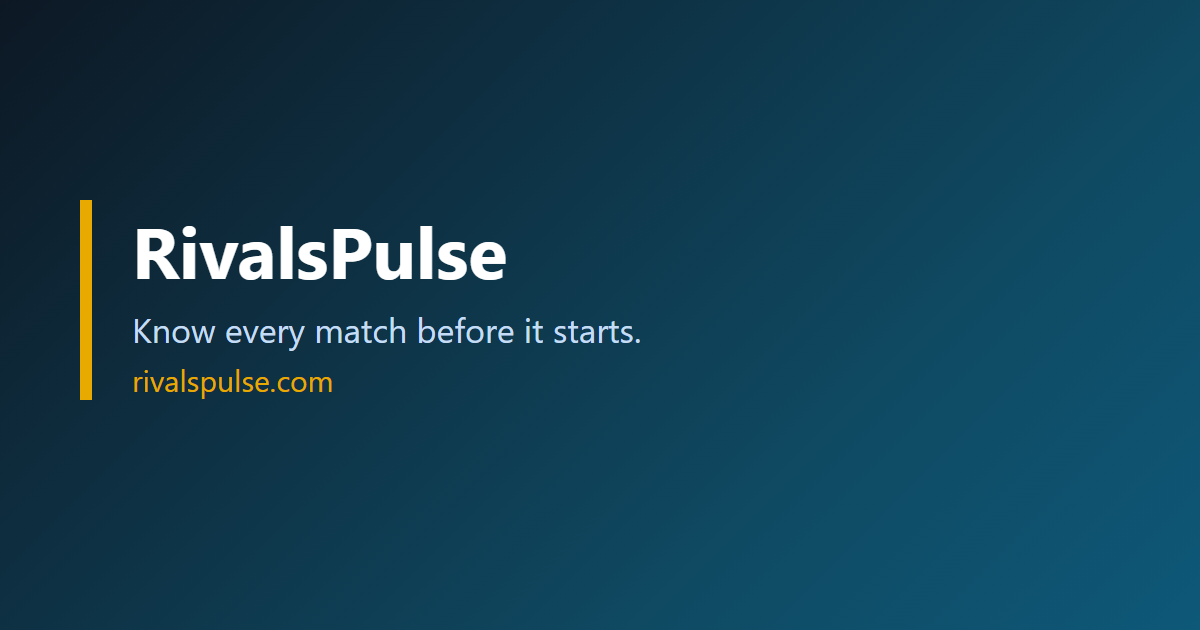
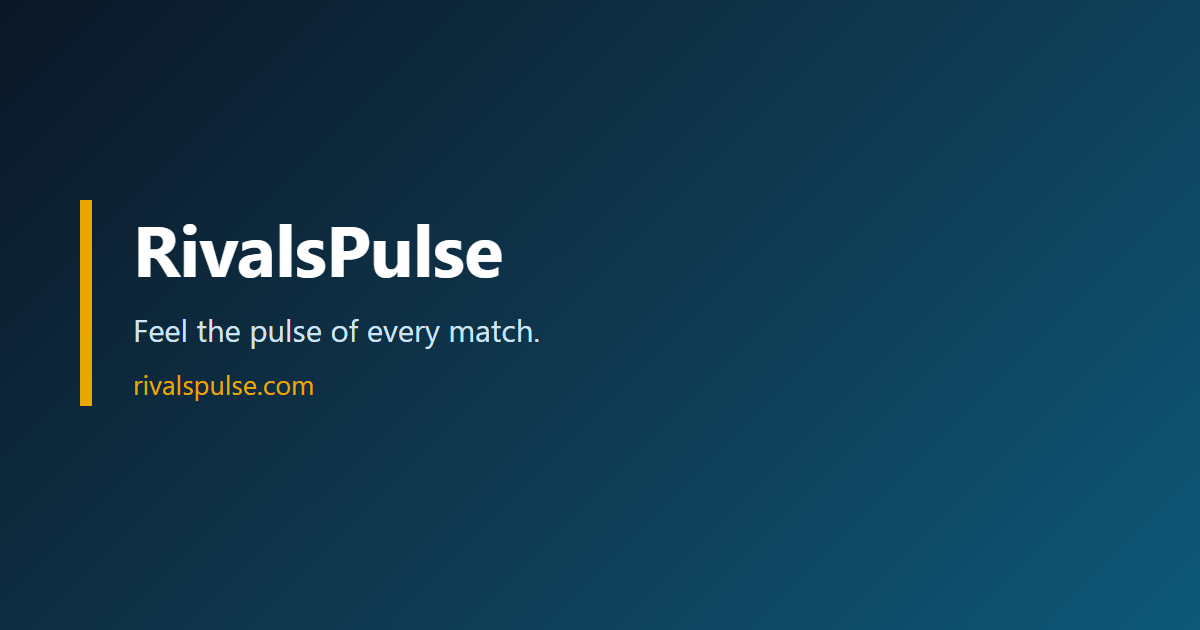
feat(home): "Feel the pulse of every match." slogan with an eyebrow
The hero h1 becomes "Feel the pulse of every match." with the eyebrow
"Live counters in game. Real stats on the web." above it. The tab
title, link-preview tags and the re-rendered preview image use the new
heading.

Closes #396

diff --git a/src/index.html b/src/index.html
@@ -2,7 +2,7 @@
 <html lang="en">
 <head>
   <meta charset="utf-8">
-  <title>RivalsPulse | Know every match before it starts</title>
+  <title>RivalsPulse | Feel the pulse of every match</title>
   <base href="/">
   <meta name="viewport" content="width=device-width, initial-scale=1">
   <link rel="icon" href="favicon.ico" sizes="32x32">
@@ -12,18 +12,18 @@
   <link rel="canonical" href="https://rivalspulse.com/">
   <meta property="og:type" content="website">
   <meta property="og:site_name" content="RivalsPulse">
-  <meta property="og:title" content="RivalsPulse | Know every match before it starts">
+  <meta property="og:title" content="RivalsPulse | Feel the pulse of every match">
   <meta property="og:description" content="RivalsPulse is a free Marvel Rivals stats app: live stats on your screen and counters at your fingertips, with win rates and tier lists from real matches.">
   <meta property="og:url" content="https://rivalspulse.com/">
   <meta property="og:image" content="https://rivalspulse.com/images/site/og-preview.png">
   <meta property="og:image:width" content="1200">
   <meta property="og:image:height" content="630">
-  <meta property="og:image:alt" content="RivalsPulse: Know every match before it starts.">
+  <meta property="og:image:alt" content="RivalsPulse: Feel the pulse of every match.">
   <meta name="twitter:card" content="summary_large_image">
-  <meta name="twitter:title" content="RivalsPulse | Know every match before it starts">
+  <meta name="twitter:title" content="RivalsPulse | Feel the pulse of every match">
   <meta name="twitter:description" content="RivalsPulse is a free Marvel Rivals stats app: live stats on your screen and counters at your fingertips, with win rates and tier lists from real matches.">
   <meta name="twitter:image" content="https://rivalspulse.com/images/site/og-preview.png">
-  <meta name="twitter:image:alt" content="RivalsPulse: Know every match before it starts.">
+  <meta name="twitter:image:alt" content="RivalsPulse: Feel the pulse of every match.">
   <script async src="https://pagead2.googlesyndication.com/pagead/js/adsbygoogle.js?client=ca-pub-5750718532449576" crossorigin="anonymous"></script>
 </head>
 <body>

diff --git a/src/app/features/home/home-page.component.spec.ts b/src/app/features/home/home-page.component.spec.ts
@@ -66,18 +66,19 @@ describe('HomePageComponent', () => {
       ]);
     });
 
-    it('has no eyebrow above the h1', () => {
+    it('says what RivalsPulse gives you in the eyebrow above the h1', () => {
       const hero = element.querySelector('.hero-copy') as HTMLElement;
 
-      expect(hero.querySelector('app-eyebrow')).toBeNull();
-      expect(hero.firstElementChild?.tagName).toBe('H1');
+      expect(hero.firstElementChild?.tagName).toBe('APP-EYEBROW');
+      expect(text(hero.querySelector('app-eyebrow'))).toBe('Live counters in game. Real stats on the web.');
+      expect(hero.firstElementChild?.nextElementSibling?.tagName).toBe('H1');
     });
 
     it('says in the h1 and one paragraph what the free Overwolf app does, in game and on the site', () => {
       const hero = element.querySelector('.hero-copy') as HTMLElement;
       const lede = text(hero.querySelector('.lede'));
 
-      expect(text(hero.querySelector('h1'))).toBe('Know every match before it starts.');
+      expect(text(hero.querySelector('h1'))).toBe('Feel the pulse of every match.');
       expect(hero.querySelectorAll('p.lede').length).toBe(1);
       expect(lede).toContain('RivalsPulse is a free Overwolf app for Marvel Rivals.');
       expect(lede).toContain('counters, the tier list and any hero over the game');

diff --git a/src/app/features/home/home-page.component.ts b/src/app/features/home/home-page.component.ts
@@ -15,6 +15,7 @@ import {
 import { toSignal } from '@angular/core/rxjs-interop';
 import { RouterLink } from '@angular/router';
 
+import { EyebrowComponent } from '../../shared/components/eyebrow/eyebrow.component';
 import { ClosingCtaComponent } from './closing-cta/closing-cta.component';
 import { GameNewsBandComponent } from './game-news-band/game-news-band.component';
 import { HeroOverlayActionsComponent } from './hero-overlay-actions/hero-overlay-actions.component';
@@ -29,6 +30,7 @@ import { ToolsRowComponent } from './tools-row/tools-row.component';
   selector: 'app-home-page',
   imports: [
     ClosingCtaComponent,
+    EyebrowComponent,
     GameNewsBandComponent,
     HeroOverlayActionsComponent,
     HomeFaqComponent,

diff --git a/src/app/core/seo/site-meta.ts b/src/app/core/seo/site-meta.ts
@@ -10,7 +10,7 @@ export const SITE_ORIGIN = 'https://rivalspulse.com';
 
 export const SITE_NAME = 'RivalsPulse';
 
-export const HOME_TITLE = 'RivalsPulse | Know every match before it starts';
+export const HOME_TITLE = 'RivalsPulse | Feel the pulse of every match';
 
 export const SITE_DESCRIPTION =
   'RivalsPulse is a free Marvel Rivals stats app: live stats on your screen and counters at your fingertips, with win rates and tier lists from real matches.';
@@ -22,4 +22,4 @@ export const PREVIEW_IMAGE_WIDTH = 1200;
 
 export const PREVIEW_IMAGE_HEIGHT = 630;
 
-export const PREVIEW_IMAGE_ALT = 'RivalsPulse: Know every match before it starts.';
+export const PREVIEW_IMAGE_ALT = 'RivalsPulse: Feel the pulse of every match.';

diff --git a/src/app/features/home/home-page.component.html b/src/app/features/home/home-page.component.html
@@ -61,7 +61,8 @@
 
     <header #heroBanner class="season-hero">
       <div class="hero-copy">
-        <h1>Know every match before it starts.</h1>
+        <app-eyebrow>Live counters in game. Real stats on the web.</app-eyebrow>
+        <h1>Feel the pulse of every match.</h1>
         <p class="lede">
           RivalsPulse is a free Overwolf app for Marvel Rivals. It shows both teams the moment a match starts,
           keeps your record and stats for the session on screen, and brings up counters, the tier list and any

diff --git a/CHANGELOG.md b/CHANGELOG.md
@@ -24,6 +24,7 @@ How to add an entry: [docs/changelog.md](docs/changelog.md).
 
 ### Changed
 
+- The home page heading is now "Feel the pulse of every match.", with a small line above it saying "Live counters in game. Real stats on the web." The browser tab title, the link-preview title and the link-preview image use the new heading in place of "Know every match before it starts." ([#396](https://github.com/anthonyturner/rivals-pulse-web/issues/396)).
 - Every page now ends in a fuller footer. On the left are the RivalsPulse brand from the header, one line about what RivalsPulse is, the "Get RivalsPulse on Overwolf" button (still "Coming soon") and a "Join the Discord" link. Beside it are three lists of links: Stats & tools (Heroes, Community stats, Tier list, Win rates, Game stats, Counters, Team builder), Learn (Hero guides, Strategist guides, Media tutorials, User highlights, Techniques, Glossary) and RivalsPulse (FAQ, How we count, Privacy notes). The bottom line holds the copyright, the note that RivalsPulse is independent of NetEase, Marvel and Overwolf, and the "Privacy and cookie settings" link where Google's consent message applies. On narrow screens the lists sit under the brand, two to a row on a phone ([#392](https://github.com/anthonyturner/rivals-pulse-web/issues/392)).
 - The home page now says what RivalsPulse does at a glance. The hero has no small label above the heading; its description says RivalsPulse is a free Overwolf app for Marvel Rivals, what it shows in game, that every tool is free on the site, that it won't get you banned and that it runs on Windows. Under the buttons, a row shows downloads and rating ("Coming soon" until the Overwolf listing has them, never 0) and the matches counted. The overlay section is now six feature cards with the two screenshots and no hotkeys or Jarvis command demo, and one card links to My stats. The hero stats table is gone from the home page; the tools section, now "Free hero stats, tier list and counters", has a Hero stats card linking to the full stats, and every card says what the app does with the same answer in game, with no hotkeys. The Glossary card is no longer on the home page ([#390](https://github.com/anthonyturner/rivals-pulse-web/issues/390)).
 - The browser tab icon (favicon) is now the same "RP" badge as the site header, in place of the default Angular icon. It also shows when the site is added to an iPhone or iPad home screen ([#388](https://github.com/anthonyturner/rivals-pulse-web/issues/388)).
